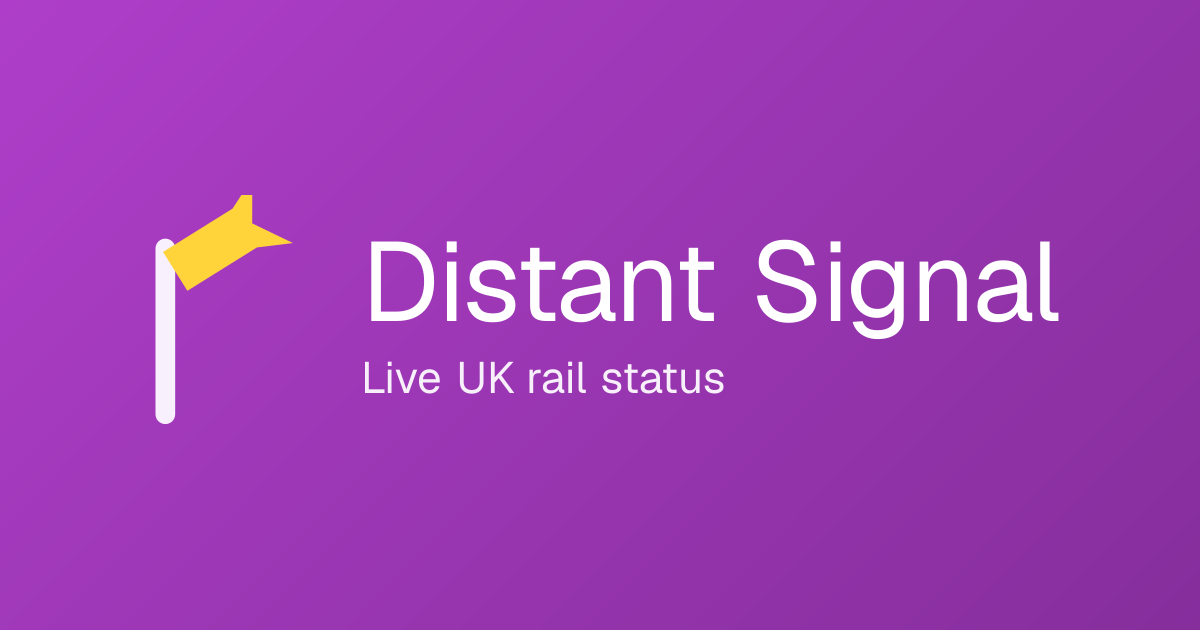
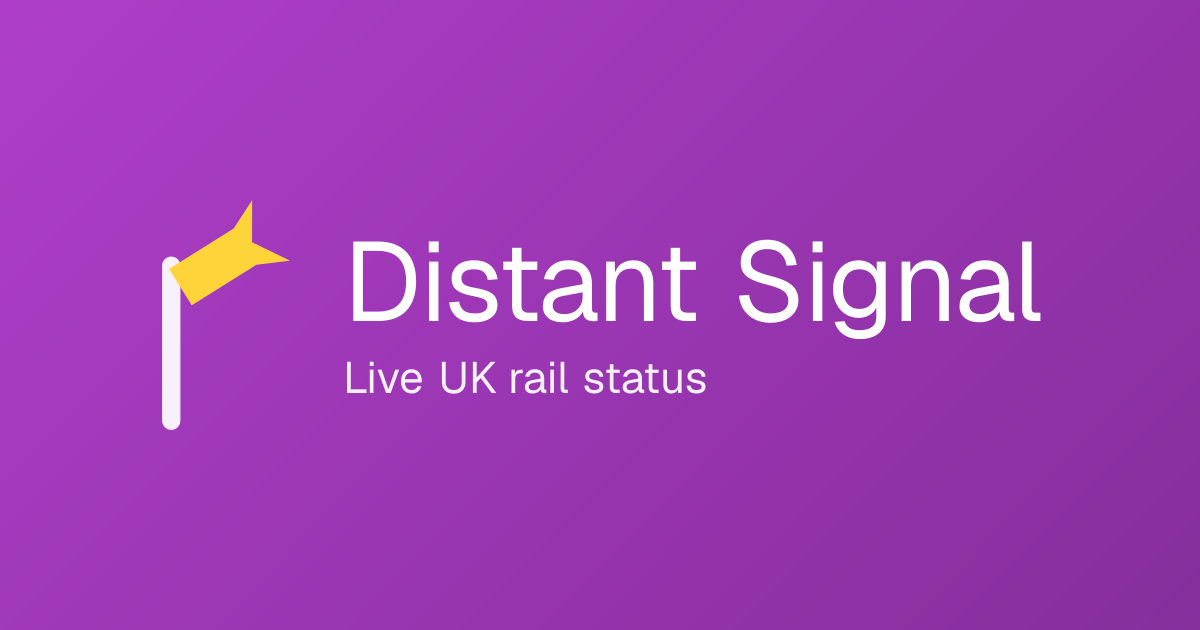
fix(frontend): show the link preview's whole signal arm, tip included
The previews cropped the bare mark to a hand-picked 13,5 16x22 box. The
raised arm's fishtail tip reaches y ~3.5, so every preview cut its top
off flat. The crop is now signalMarkBounds plus an even half-unit
margin. This covers every opengraph-image route and the re-saved
site-wide public/opengraph-image.png.

A new pixel test decodes each rendered card and the saved PNG. It finds
the arm's yellow and checks it sits at least 48px inside the canvas, and
that its box keeps the shape's proportions. The old crop made the box
about 14% squatter and fails the test.

Task: DS-84

Changed region(s): [[0.2775, 0.3619, 0.8942, 0.5429], [0.1233, 0.3016, 0.2467, 0.6937], [0.2775, 0.573, 0.6167, 0.6333]]

diff --git a/frontend/lib/previewImage.test.tsx b/frontend/lib/previewImage.test.tsx
@@ -1,7 +1,9 @@
 // @vitest-environment node
 import { readdirSync, readFileSync } from 'node:fs';
 import { join } from 'node:path';
+import { inflateSync } from 'node:zlib';
 import { describe, expect, it } from 'vitest';
+import { signalArmBounds } from './brand';
 import { previewTitleFontSize, previewTitleFromMetadata, renderPreviewImage } from './previewImage';
 
 describe('previewTitleFromMetadata', () => {
@@ -35,6 +37,97 @@ describe('renderPreviewImage', () => {
     },
     30_000,
   );
+});
+
+/** A non-interlaced 8-bit RGB or RGBA PNG (what next/og writes), decoded
+ * to rows of RGB(A) bytes: enough to look at where the mark landed. */
+function decodePng(png: Buffer): { width: number; height: number; channels: number; pixels: Buffer } {
+  const width = png.readUInt32BE(16);
+  const height = png.readUInt32BE(20);
+  const [bitDepth, colourType, , , interlace] = png.subarray(24, 29);
+  expect({ bitDepth, interlace }).toEqual({ bitDepth: 8, interlace: 0 });
+  const channels = colourType === 6 ? 4 : colourType === 2 ? 3 : 0;
+  expect(channels, `colour type ${colourType}`).toBeGreaterThan(0);
+  const idat: Buffer[] = [];
+  for (let at = 8; at < png.length;) {
+    const length = png.readUInt32BE(at);
+    if (png.toString('ascii', at + 4, at + 8) === 'IDAT') idat.push(png.subarray(at + 8, at + 8 + length));
+    at += 12 + length;
+  }
+  const raw = inflateSync(Buffer.concat(idat));
+  const stride = width * channels;
+  const pixels = Buffer.alloc(stride * height);
+  for (let y = 0; y < height; y++) {
+    const filter = raw.readUInt8(y * (stride + 1));
+    for (let i = 0; i < stride; i++) {
+      const value = raw.readUInt8(y * (stride + 1) + 1 + i);
+      const left = i >= channels ? pixels.readUInt8(y * stride + i - channels) : 0;
+      const up = y > 0 ? pixels.readUInt8((y - 1) * stride + i) : 0;
+      const upLeft = y > 0 && i >= channels ? pixels.readUInt8((y - 1) * stride + i - channels) : 0;
+      let predictor = 0;
+      if (filter === 1) predictor = left;
+      else if (filter === 2) predictor = up;
+      else if (filter === 3) predictor = (left + up) >> 1;
+      else if (filter === 4) {
+        const p = left + up - upLeft;
+        const [pa, pb, pc] = [Math.abs(p - left), Math.abs(p - up), Math.abs(p - upLeft)];
+        predictor = pa <= pb && pa <= pc ? left : pb <= pc ? up : upLeft;
+      }
+      pixels.writeUInt8((value + predictor) & 0xff, y * stride + i);
+    }
+  }
+  return { width, height, channels, pixels };
+}
+
+/** The bounding box of the arm's yellow (#ffd43b) in a preview: nothing
+ * else on the grape-and-white card is that colour. */
+function yellowArmBox(png: Buffer) {
+  const { width, height, channels, pixels } = decodePng(png);
+  let [left, top, right, bottom, count] = [width, height, -1, -1, 0];
+  for (let y = 0; y < height; y++) {
+    for (let x = 0; x < width; x++) {
+      const at = (y * width + x) * channels;
+      if (pixels.readUInt8(at) >= 230 && pixels.readUInt8(at + 1) >= 190 && pixels.readUInt8(at + 2) <= 120) {
+        count++;
+        left = Math.min(left, x);
+        right = Math.max(right, x);
+        top = Math.min(top, y);
+        bottom = Math.max(bottom, y);
+      }
+    }
+  }
+  return { width, height, count, left, top, right, bottom };
+}
+
+/** The whole arm sits inside the card with room to spare, and its box has
+ * the shape's own proportions: a crop across the raised fishtail tip
+ * (the bug a hand-picked viewBox once caused) makes it ~15% squatter. */
+function expectWholeArm(png: Buffer) {
+  const box = yellowArmBox(png);
+  expect(box.count).toBeGreaterThan(200);
+  const margin = 48;
+  expect(box.left).toBeGreaterThanOrEqual(margin);
+  expect(box.top).toBeGreaterThanOrEqual(margin);
+  expect(box.right).toBeLessThan(box.width - margin);
+  expect(box.bottom).toBeLessThan(box.height - margin);
+  const arm = signalArmBounds();
+  const drawn = (box.bottom - box.top + 1) / (box.right - box.left + 1);
+  expect(drawn / (arm.height / arm.width)).toBeCloseTo(1, 1);
+}
+
+describe('the mark in a preview', () => {
+  it.each([null, 'Status', 'Great Western Railway: London Paddington to Bristol Temple Meads'])(
+    'shows the whole raised arm for %s',
+    async (title) => {
+      expectWholeArm(Buffer.from(await renderPreviewImage(title).arrayBuffer()));
+    },
+    30_000,
+  );
+
+  it('shows the whole raised arm in the saved site-wide image too', () => {
+    // public/opengraph-image.png is renderPreviewImage(null), saved: re-save it when the template changes.
+    expectWholeArm(readFileSync('public/opengraph-image.png'));
+  });
 });
 
 describe('the routes with their own preview', () => {

diff --git a/frontend/lib/previewImage.tsx b/frontend/lib/previewImage.tsx
@@ -1,6 +1,6 @@
 import { ImageResponse } from 'next/og';
 import type { Metadata } from 'next';
-import { signalMarkSvg } from './brand';
+import { type MarkBox, signalMarkBounds, signalMarkSvg } from './brand';
 import { SITE_NAME } from './pageMetadata';
 
 /** The link-preview (Open Graph) image template (round 2, item 9): the
@@ -46,8 +46,20 @@ export function previewTitleFromMetadata(metadata: Metadata): string | null {
 }
 
 /** The post and arm without their tile, which would vanish on the grape
- * background, cropped to their own bounds in the icon's 32x32 box. */
-const BARE_MARK_VIEWBOX = { x: 13, y: 5, width: 16, height: 22 };
+ * background, cropped to their own bounds in the icon's 32x32 box plus an
+ * even half-unit margin so no anti-aliased edge touches the box. The bounds
+ * come from the shape itself (`signalMarkBounds`): a hand-picked box
+ * (y from 5) once sliced the top off the raised arm's fishtail tip. */
+const MARK_MARGIN = 0.5;
+export const BARE_MARK_VIEWBOX: MarkBox = (() => {
+  const { x, y, width, height } = signalMarkBounds();
+  return {
+    x: x - MARK_MARGIN,
+    y: y - MARK_MARGIN,
+    width: width + 2 * MARK_MARGIN,
+    height: height + 2 * MARK_MARGIN,
+  };
+})();
 
 function bareSignalMarkDataUri(): string {
   const { x, y, width, height } = BARE_MARK_VIEWBOX;

diff --git a/docs/style-guide.md b/docs/style-guide.md
@@ -361,6 +361,9 @@ used, rather than as a literal in a component.
   route falls back to `public/opengraph-image.png`, the template's no-title
   form. A route with its own image passes `OWN_PREVIEW_IMAGE` to
   `pageMetadata`: an explicit card image would otherwise win over it.
+  The bare arm is cropped to `signalMarkBounds` (the shape's own extent,
+  raised fishtail tip included), never a hand-picked box. Re-save
+  `public/opengraph-image.png` whenever the template or the mark changes.
 - **Preferences** (`app/account/preferences/page.tsx`): open to everyone,
   never a redirect. Each section is a `PreferencesSection` card.
   - Device-local, no account needed: Appearance (colour theme, pride
